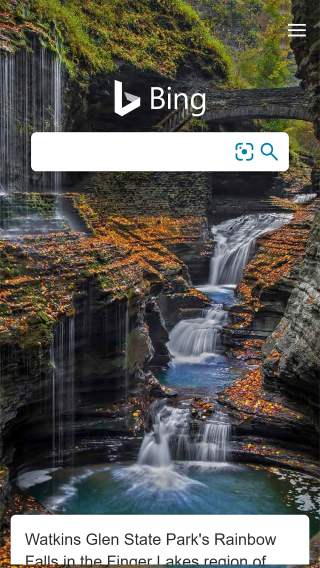
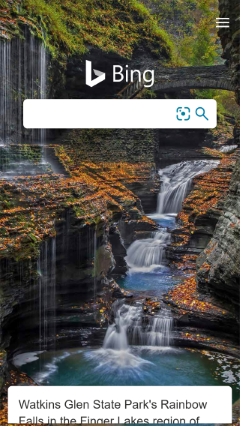
Optimize images

diff --git a/lesson2/design-principles.html b/lesson2/design-principles.html
@@ -63,9 +63,10 @@
         <p>
           Good use of negative space to help separate elements and give the page
           a light, airy feeling. The Microsoft log in the top menu bar creates a
-          center of gravity for the design, and the remaining icons have a clear
-          purpose. The remainder of the page is organized as a list of selling
-          points, each separated from the others into its own section.
+          center of gravity for the design, and the icons on either side of it
+          have a clear purpose. The remainder of the page is organized as a list
+          of selling points, each separated from the others into its own
+          section.
         </p>
       </section>
       <section>
